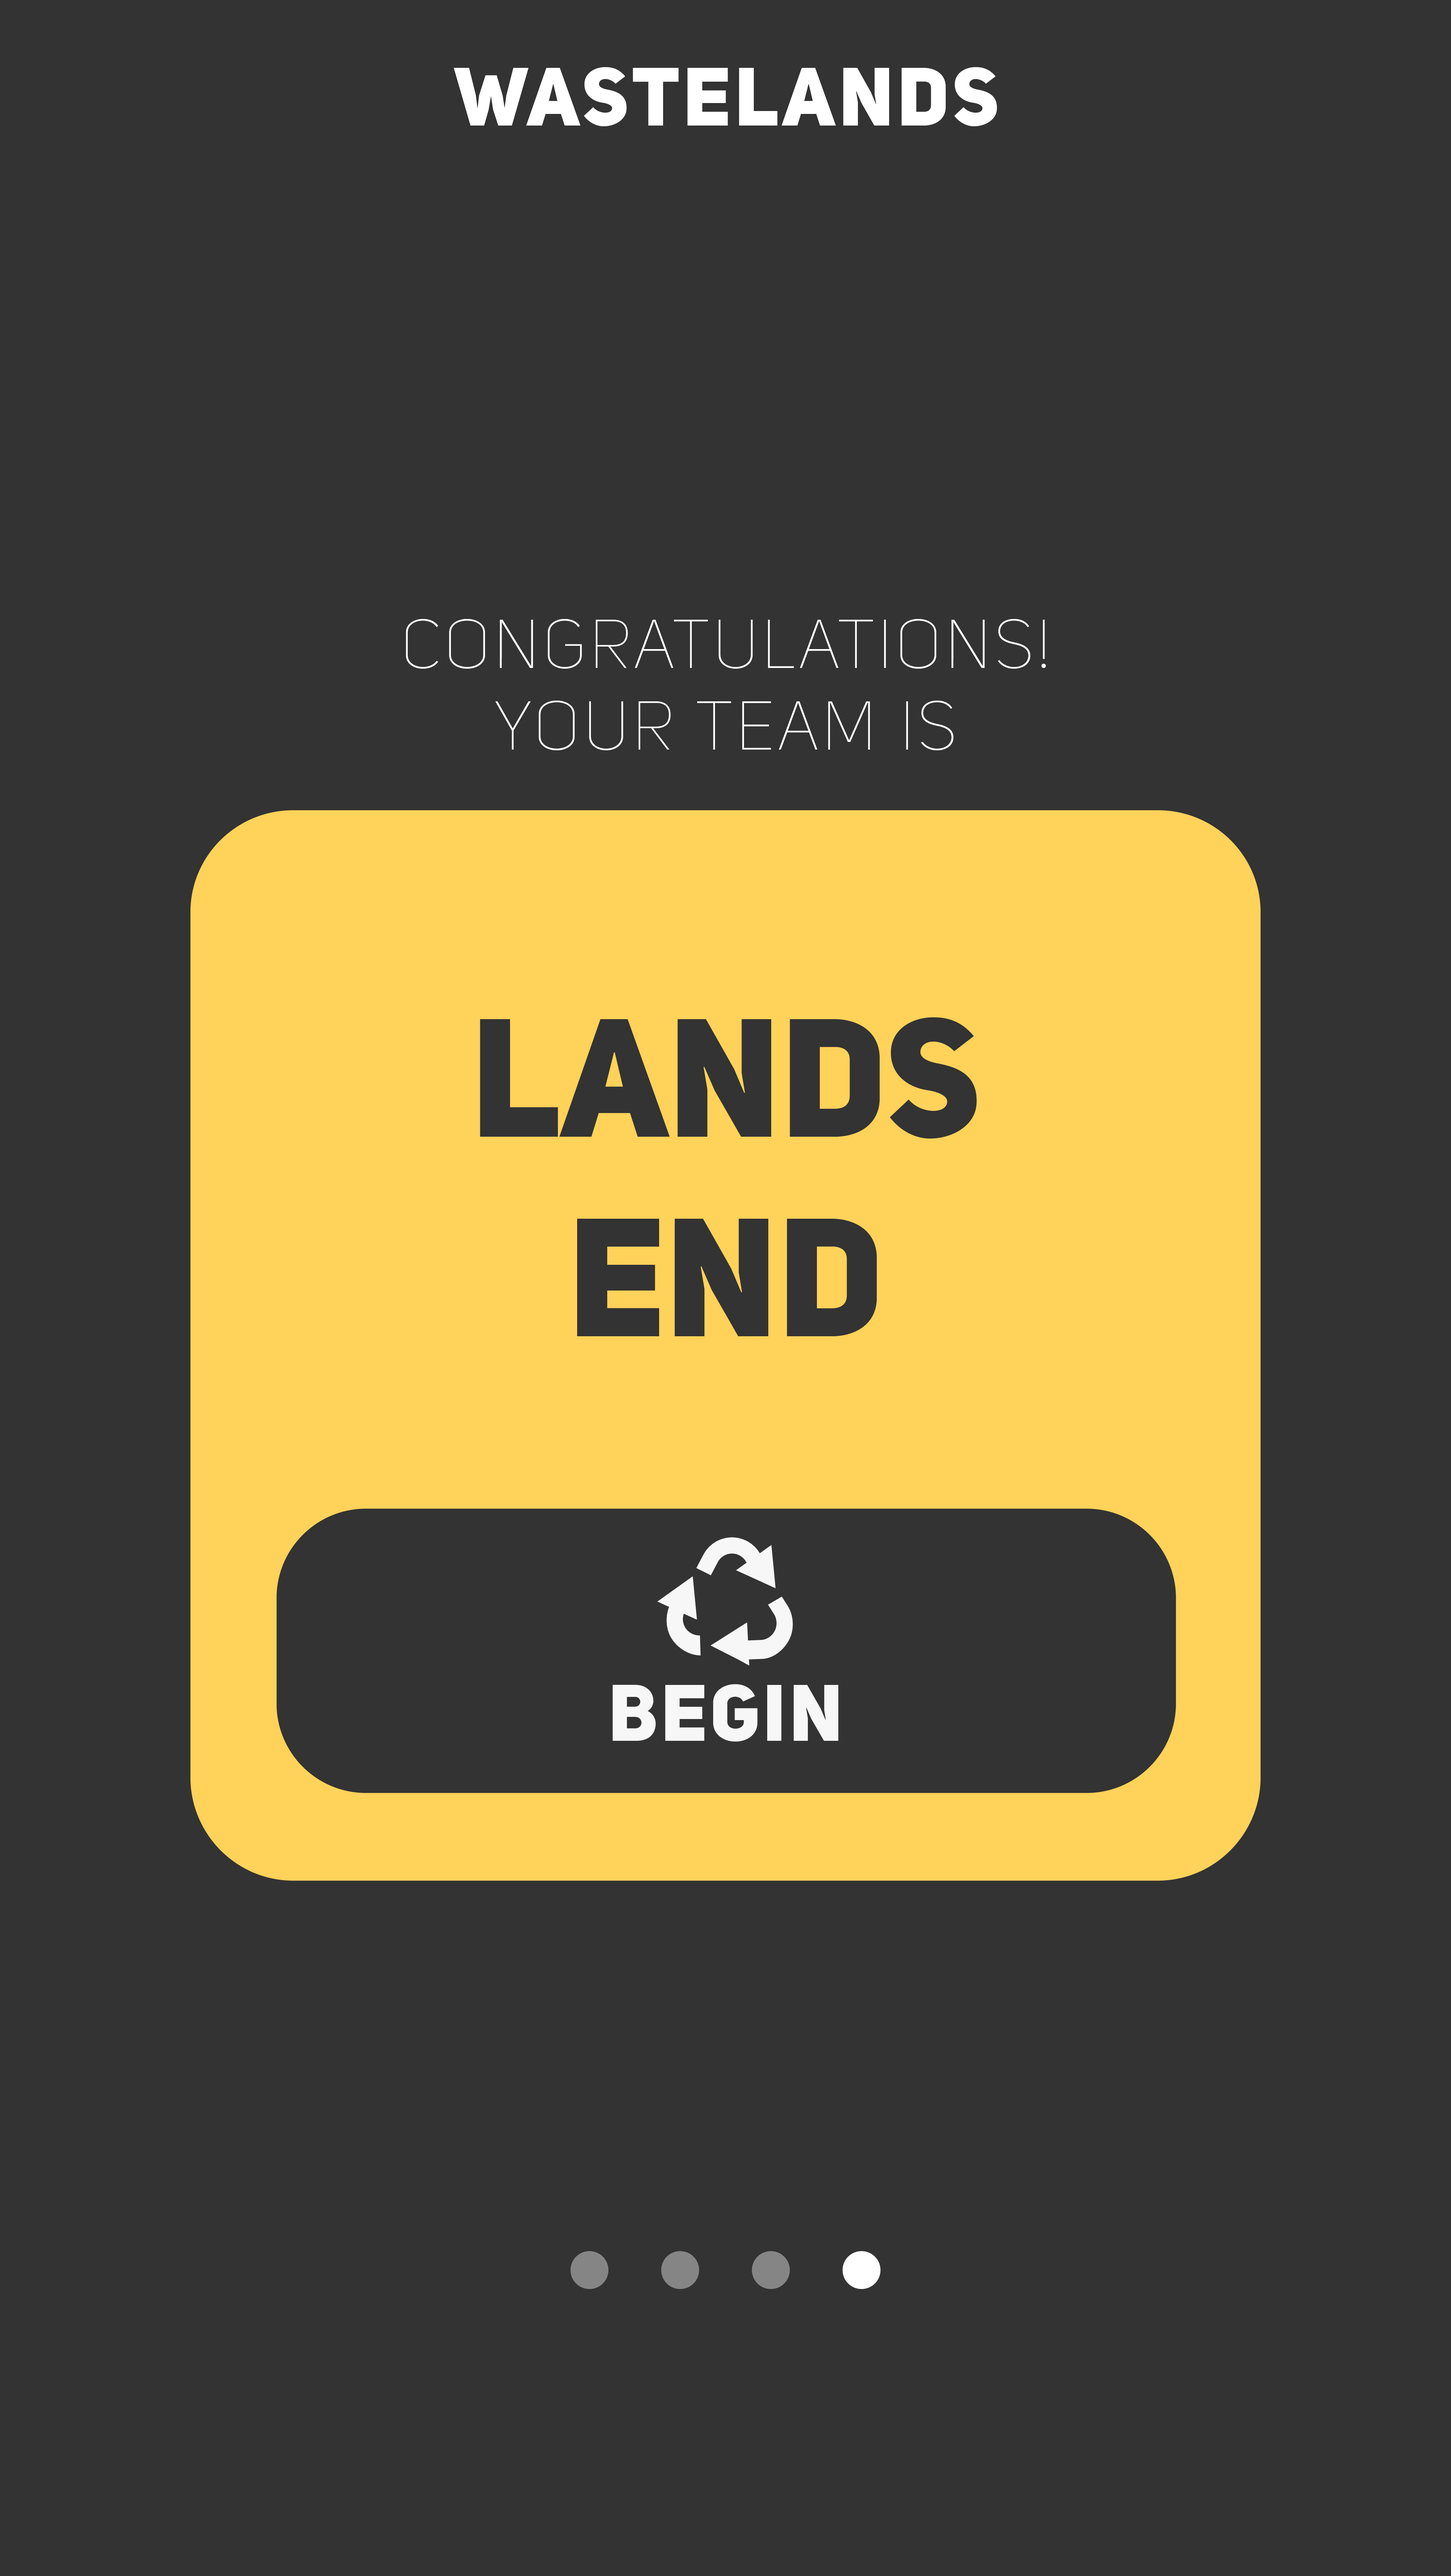
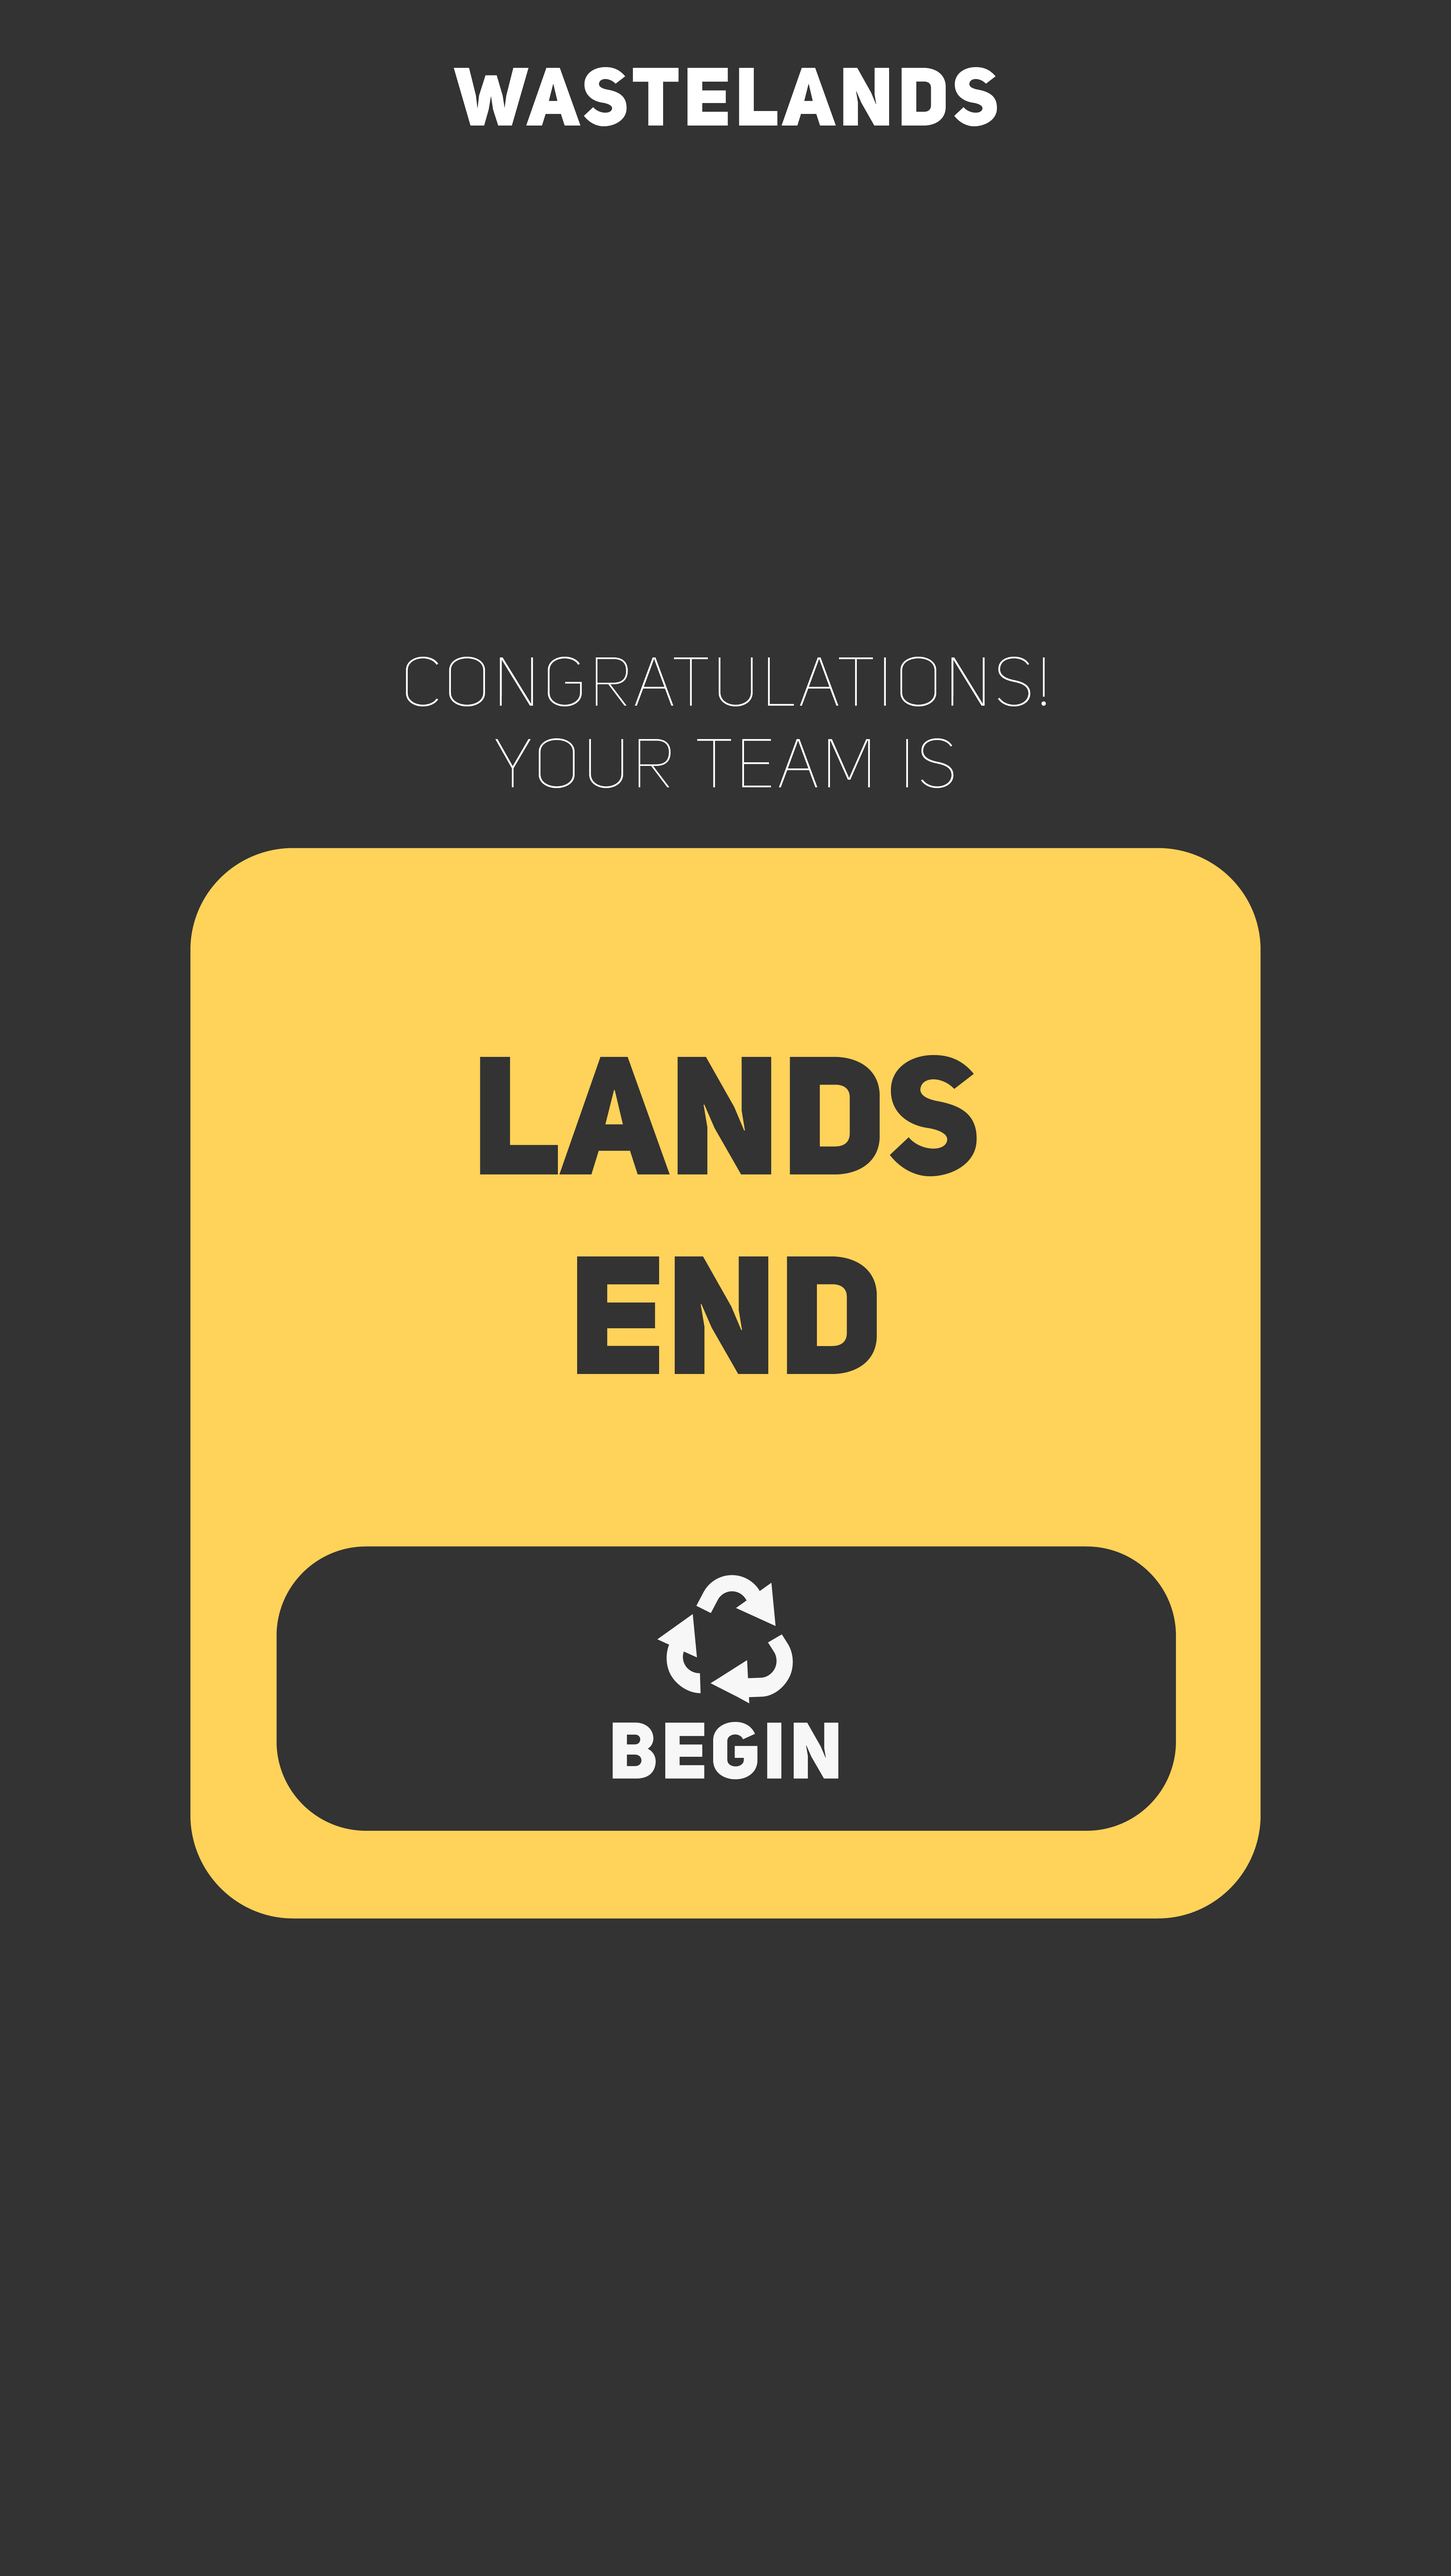
hacky way to do team selection

diff --git a/wastelands/www/teams-panhandle.html b/wastelands/www/teams-panhandle.html
@@ -1,0 +1,21 @@
+<!DOCTYPE html>
+ <html>
+    <head>
+        <meta charset="utf-8" />
+        <meta name="format-detection" content="telephone=no" />
+        <!-- WARNING: for iOS 7, remove the width=device-width and height=device-height attributes. See https://issues.apache.org/jira/browse/CB-4323 -->
+        <meta name="viewport" content="user-scalable=no, initial-scale=1, maximum-scale=1, minimum-scale=1, width=device-width, height=device-height, target-densitydpi=device-dpi" />
+
+        <link rel="stylesheet" type="text/css" href="css/teams.css" />
+
+        <meta name="msapplication-tap-highlight" content="no" />
+        <title>Wastelands Instructions</title>
+    </head>
+    <body>
+    <div class="container">
+        <div id="banner">
+            <img src="img/mock-up/5-team-panhandle.png" style="width: auto; max-height: 100%"/>
+        </div>
+    </div>
+    </body>
+</html>

diff --git a/wastelands/www/teams-twinpeaks.html b/wastelands/www/teams-twinpeaks.html
@@ -1,0 +1,21 @@
+<!DOCTYPE html>
+ <html>
+    <head>
+        <meta charset="utf-8" />
+        <meta name="format-detection" content="telephone=no" />
+        <!-- WARNING: for iOS 7, remove the width=device-width and height=device-height attributes. See https://issues.apache.org/jira/browse/CB-4323 -->
+        <meta name="viewport" content="user-scalable=no, initial-scale=1, maximum-scale=1, minimum-scale=1, width=device-width, height=device-height, target-densitydpi=device-dpi" />
+
+        <link rel="stylesheet" type="text/css" href="css/teams.css" />
+
+        <meta name="msapplication-tap-highlight" content="no" />
+        <title>Wastelands Instructions</title>
+    </head>
+    <body>
+    <div class="container">
+        <div id="banner">
+            <img src="img/mock-up/5-team-twinpeaks.png" style="width: auto; max-height: 100%"/>
+        </div>
+    </div>
+    </body>
+</html>

diff --git a/wastelands/www/teams-landsend.html b/wastelands/www/teams-landsend.html
@@ -1,0 +1,21 @@
+<!DOCTYPE html>
+ <html>
+    <head>
+        <meta charset="utf-8" />
+        <meta name="format-detection" content="telephone=no" />
+        <!-- WARNING: for iOS 7, remove the width=device-width and height=device-height attributes. See https://issues.apache.org/jira/browse/CB-4323 -->
+        <meta name="viewport" content="user-scalable=no, initial-scale=1, maximum-scale=1, minimum-scale=1, width=device-width, height=device-height, target-densitydpi=device-dpi" />
+
+        <link rel="stylesheet" type="text/css" href="css/teams.css" />
+
+        <meta name="msapplication-tap-highlight" content="no" />
+        <title>Wastelands Instructions</title>
+    </head>
+    <body>
+    <div class="container">
+        <div id="banner">
+            <img src="img/mock-up/5-team-landsend.png" style="width: auto; max-height: 100%"/>
+        </div>
+    </div>
+    </body>
+</html>

diff --git a/wastelands/www/teams-barbary.html b/wastelands/www/teams-barbary.html
@@ -1,0 +1,21 @@
+<!DOCTYPE html>
+ <html>
+    <head>
+        <meta charset="utf-8" />
+        <meta name="format-detection" content="telephone=no" />
+        <!-- WARNING: for iOS 7, remove the width=device-width and height=device-height attributes. See https://issues.apache.org/jira/browse/CB-4323 -->
+        <meta name="viewport" content="user-scalable=no, initial-scale=1, maximum-scale=1, minimum-scale=1, width=device-width, height=device-height, target-densitydpi=device-dpi" />
+
+        <link rel="stylesheet" type="text/css" href="css/teams.css" />
+
+        <meta name="msapplication-tap-highlight" content="no" />
+        <title>Wastelands Instructions</title>
+    </head>
+    <body>
+    <div class="container">
+        <div id="banner">
+            <img src="img/mock-up/5-team-barbary.png" style="width: auto; max-height: 100%"/>
+        </div>
+    </div>
+    </body>
+</html>

diff --git a/wastelands/www/teams-sutro.html b/wastelands/www/teams-sutro.html
@@ -1,0 +1,21 @@
+<!DOCTYPE html>
+ <html>
+    <head>
+        <meta charset="utf-8" />
+        <meta name="format-detection" content="telephone=no" />
+        <!-- WARNING: for iOS 7, remove the width=device-width and height=device-height attributes. See https://issues.apache.org/jira/browse/CB-4323 -->
+        <meta name="viewport" content="user-scalable=no, initial-scale=1, maximum-scale=1, minimum-scale=1, width=device-width, height=device-height, target-densitydpi=device-dpi" />
+
+        <link rel="stylesheet" type="text/css" href="css/teams.css" />
+
+        <meta name="msapplication-tap-highlight" content="no" />
+        <title>Wastelands Instructions</title>
+    </head>
+    <body>
+    <div class="container">
+        <div id="banner">
+            <img src="img/mock-up/5-team-sutro.png" style="width: auto; max-height: 100%"/>
+        </div>
+    </div>
+    </body>
+</html>

diff --git a/wastelands/www/css/teams.css b/wastelands/www/css/teams.css
@@ -1,0 +1,15 @@
+body {
+	background-color: #333333;
+    height:100%;
+    margin:0px;
+    padding:0px;
+    width:100%;
+}
+
+#banner{
+  position: absolute;
+  width: 100%;
+  bottom: 0;
+  left: 0;
+  z-index: -1;
+}
